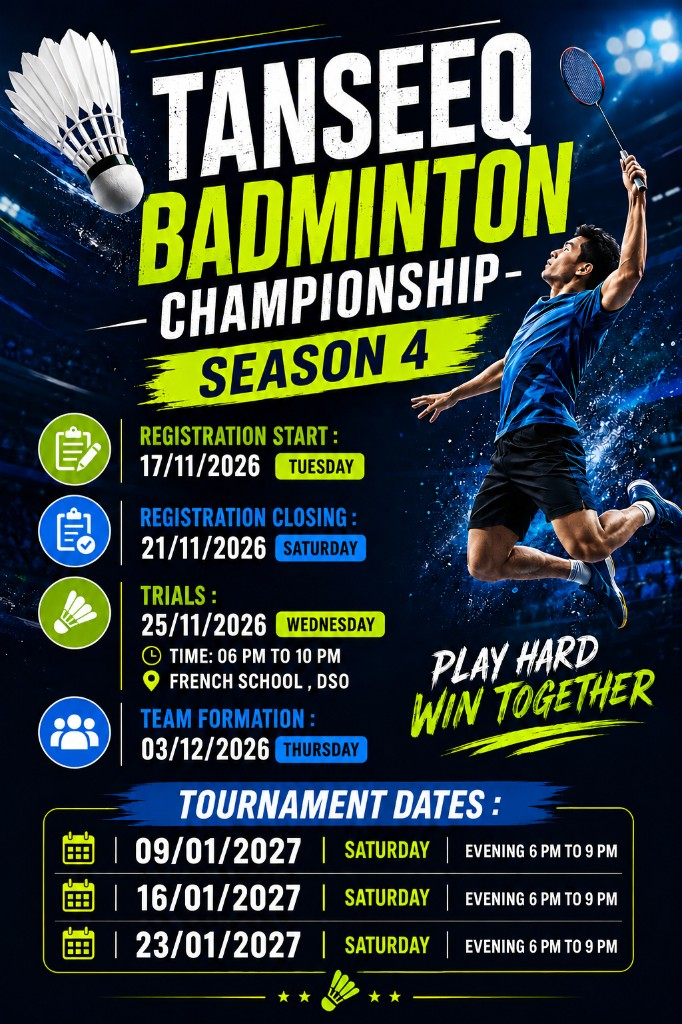
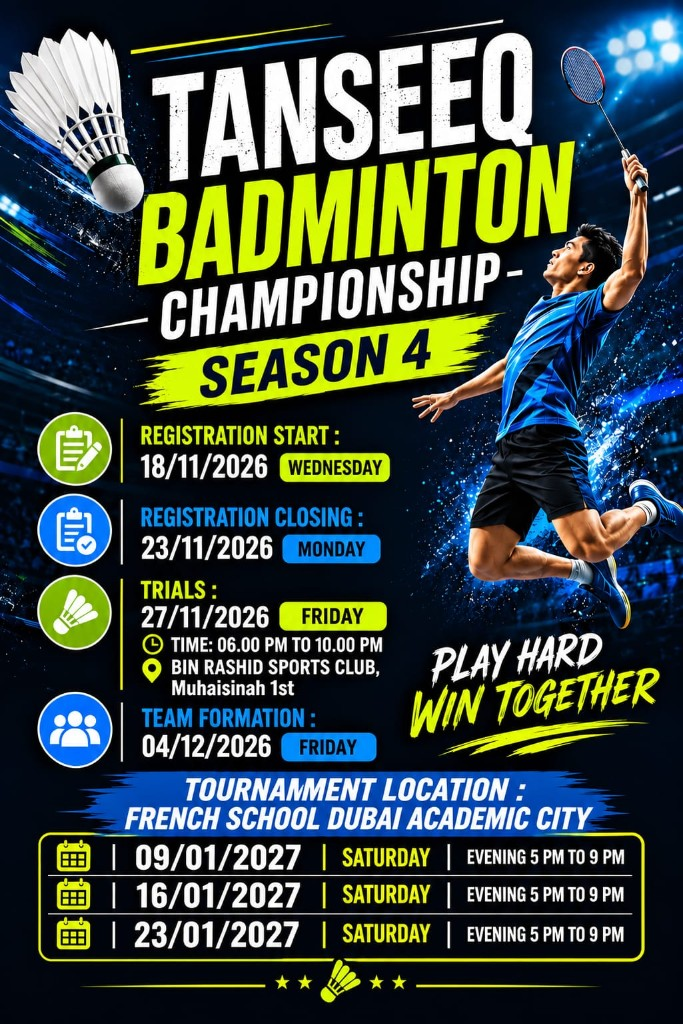
Update badminton poster and add planned vacation date field through Jan 2027.

diff --git a/app/Http/Controllers/RunRegistrationController.php b/app/Http/Controllers/RunRegistrationController.php
@@ -15,14 +15,14 @@ class RunRegistrationController extends Controller
 {
     /**
      * Check if registration is closed
-     * Closes on 21 November 2026 at night 12:00 AM Dubai time
-     * (open all day on 21 Nov; closed from 22 Nov 00:00 Asia/Dubai)
+     * Closes on 23 November 2026 at night 12:00 AM Dubai time
+     * (open all day on 23 Nov; closed from 24 Nov 00:00 Asia/Dubai)
      *
      * @param Carbon|null $testTime Optional test time to simulate different times
      */
     private function isRegistrationClosed($testTime = null)
     {
-        // Get deadline from environment or use default (night of 21 Nov 2026 = 22 Nov 00:00 Dubai)
+        // Get deadline from environment or use default (night of 23 Nov 2026 = 24 Nov 00:00 Dubai)
         $deadline = env('REGISTRATION_DEADLINE', null);
         
         // Get local timezone from env or default to Asia/Dubai (Dubai/UAE timezone)
@@ -32,8 +32,8 @@ class RunRegistrationController extends Controller
             // Parse deadline assuming it's in local timezone (not UTC)
             $deadlineTime = Carbon::parse($deadline, $localTimezone);
         } else {
-            // Default: night of 21 Nov 2026 at 12:00 AM Dubai = 22 Nov 2026 00:00:00 Asia/Dubai
-            $deadlineTime = Carbon::create(2026, 11, 22, 0, 0, 0, $localTimezone);
+            // Default: night of 23 Nov 2026 at 12:00 AM Dubai = 24 Nov 2026 00:00:00 Asia/Dubai
+            $deadlineTime = Carbon::create(2026, 11, 24, 0, 0, 0, $localTimezone);
         }
         
         $currentTime = $testTime ?? now();
@@ -56,7 +56,7 @@ class RunRegistrationController extends Controller
             // Parse deadline assuming it's in local timezone
             $deadlineTime = Carbon::parse($deadline, $localTimezone);
         } else {
-            $deadlineTime = Carbon::create(2026, 11, 22, 0, 0, 0, $localTimezone);
+            $deadlineTime = Carbon::create(2026, 11, 24, 0, 0, 0, $localTimezone);
         }
         
         $currentTime = $currentTime->setTimezone($localTimezone);
@@ -94,7 +94,7 @@ class RunRegistrationController extends Controller
         if ($deadline) {
             $deadlineTime = Carbon::parse($deadline);
         } else {
-            $deadlineTime = Carbon::create(2026, 11, 22, 0, 0, 0);
+            $deadlineTime = Carbon::create(2026, 11, 24, 0, 0, 0);
         }
         
         // Test times to check
@@ -109,10 +109,10 @@ class RunRegistrationController extends Controller
         } else {
             // Default test times
             $testTimes = [
-                ['label' => 'Nov 21 11:50 AM', 'time' => Carbon::create(2026, 11, 21, 11, 50, 0)],
-                ['label' => 'Nov 21 11:59 PM', 'time' => Carbon::create(2026, 11, 21, 23, 59, 59)],
-                ['label' => 'Nov 22 12:00 AM', 'time' => Carbon::create(2026, 11, 22, 0, 0, 0)],
-                ['label' => 'Nov 22 12:01 AM', 'time' => Carbon::create(2026, 11, 22, 0, 1, 0)],
+                ['label' => 'Nov 23 11:50 AM', 'time' => Carbon::create(2026, 11, 23, 11, 50, 0)],
+                ['label' => 'Nov 23 11:59 PM', 'time' => Carbon::create(2026, 11, 23, 23, 59, 59)],
+                ['label' => 'Nov 24 12:00 AM', 'time' => Carbon::create(2026, 11, 24, 0, 0, 0)],
+                ['label' => 'Nov 24 12:01 AM', 'time' => Carbon::create(2026, 11, 24, 0, 1, 0)],
             ];
         }
         
@@ -323,6 +323,7 @@ class RunRegistrationController extends Controller
             'employee_id' => 'required|unique:run_registrations',
             'dob' => 'required|date',
             'contact_number' => 'required|digits_between:8,15',
+            'planned_vacation' => 'required|date|after_or_equal:today|before_or_equal:2027-01-31',
             'trial_availability' => 'required|in:Yes,No',
             'trial_transportation' => 'required|in:Yes,No',
             'trial_pickup_location' => ['nullable', 'required_if:trial_transportation,Yes', Rule::in($pickupLocations)],
@@ -360,6 +361,7 @@ class RunRegistrationController extends Controller
             'dob' => $request->dob,
             'run_category' => 'Badminton',
             'contact_number' => $request->contact_number,
+            'planned_vacation' => $request->planned_vacation,
             'tshirt_size' => 'N/A',
             'trial_availability' => $request->trial_availability,
             'trial_transportation' => $request->trial_transportation,
@@ -538,6 +540,7 @@ class RunRegistrationController extends Controller
             'company' => ['required', Rule::in($companies)],
             'dob' => 'required|date',
             'contact_number' => 'required|digits_between:8,15',
+            'planned_vacation' => 'required|date|after_or_equal:today|before_or_equal:2027-01-31',
             'trial_availability' => 'required|in:Yes,No',
             'trial_transportation' => 'required|in:Yes,No',
             'trial_pickup_location' => ['nullable', 'required_if:trial_transportation,Yes', Rule::in($pickupLocations)],
@@ -551,6 +554,7 @@ class RunRegistrationController extends Controller
             'company' => $request->company,
             'dob' => $request->dob,
             'contact_number' => $request->contact_number,
+            'planned_vacation' => $request->planned_vacation,
             'trial_availability' => $request->trial_availability,
             'trial_transportation' => $request->trial_transportation,
             'trial_pickup_location' => $request->trial_transportation === 'Yes' ? $request->trial_pickup_location : null,
@@ -587,6 +591,7 @@ class RunRegistrationController extends Controller
                 'Company',
                 'DOB',
                 'Contact Number',
+                'Planned Vacation',
                 'Trial Availability',
                 'Trial Transportation',
                 'Trial Pickup Location',
@@ -606,6 +611,7 @@ class RunRegistrationController extends Controller
                     $r->company,
                     $r->dob ? Carbon::parse($r->dob)->format('d/m/Y') : '-',
                     $r->contact_number,
+                    $r->planned_vacation ? Carbon::parse($r->planned_vacation)->format('d/m/Y') : '-',
                     $r->trial_availability ?? '-',
                     $r->trial_transportation ?? '-',
                     $r->trial_pickup_location ?? '-',
@@ -699,6 +705,7 @@ class RunRegistrationController extends Controller
                 'Company',
                 'DOB',
                 'Contact Number',
+                'Planned Vacation',
                 'Trial Availability',
                 'Trial Transportation',
                 'Trial Pickup Location',
@@ -717,6 +724,7 @@ class RunRegistrationController extends Controller
                     $r->company,
                     $r->dob ? Carbon::parse($r->dob)->format('d/m/Y') : '-',
                     $r->contact_number,
+                    $r->planned_vacation ? Carbon::parse($r->planned_vacation)->format('d/m/Y') : '-',
                     $r->trial_availability ?? '-',
                     $r->trial_transportation ?? '-',
                     $r->trial_pickup_location ?? '-',

diff --git a/resources/views/run/register.blade.php b/resources/views/run/register.blade.php
@@ -211,10 +211,20 @@
                                 <input type="tel" class="form-control" id="contact_number" name="contact_number"
                                        value="{{ old('contact_number') }}" placeholder="Contact number" required>
                             </div>
+
+                            <div class="mb-3">
+                                <label for="planned_vacation" class="form-label">Planned Vacation <span class="text-danger">*</span></label>
+                                <input type="date" class="form-control" id="planned_vacation" name="planned_vacation"
+                                       value="{{ old('planned_vacation') }}"
+                                       min="{{ now()->timezone(config('app.timezone', 'Asia/Dubai'))->toDateString() }}"
+                                       max="2027-01-31"
+                                       required>
+                                <small class="text-muted">Select a date from today through 31 January 2027</small>
+                            </div>
                         </div>
 
                         <div class="form-section">
-                            <div class="section-title">Trial Details (25/11/2026)</div>
+                            <div class="section-title">Trial Details (27/11/2026)</div>
 
                             <div class="mb-3">
                                 <label for="trial_availability" class="form-label">Trial Availability (27/11/2026) <span class="text-danger">*</span></label>

diff --git a/resources/views/run/edit.blade.php b/resources/views/run/edit.blade.php
@@ -86,6 +86,15 @@
                                 <input type="tel" class="form-control" id="contact_number" name="contact_number"
                                        value="{{ old('contact_number', $registration->contact_number) }}" required>
                             </div>
+
+                            <div class="mb-3">
+                                <label for="planned_vacation" class="form-label">Planned Vacation <span class="text-danger">*</span></label>
+                                <input type="date" class="form-control" id="planned_vacation" name="planned_vacation"
+                                       value="{{ old('planned_vacation', $registration->planned_vacation ? \Illuminate\Support\Carbon::parse($registration->planned_vacation)->format('Y-m-d') : '') }}"
+                                       min="{{ now()->timezone(config('app.timezone', 'Asia/Dubai'))->toDateString() }}"
+                                       max="2027-01-31"
+                                       required>
+                            </div>
                         </div>
 
                         <div class="form-section">

diff --git a/resources/views/run/list.blade.php b/resources/views/run/list.blade.php
@@ -131,6 +131,7 @@
                     <th>Company</th>
                     <th>DOB</th>
                     <th>Contact</th>
+                    <th>Planned Vacation</th>
                     <th>Trial Avail.</th>
                     <th>Trial Transport</th>
                     <th>Trial Pickup</th>
@@ -152,6 +153,7 @@
                     <td>{{ $r->company }}</td>
                     <td>{{ $r->dob ? \Illuminate\Support\Carbon::parse($r->dob)->format('d/m/Y') : '-' }}</td>
                     <td>{{ $r->contact_number }}</td>
+                    <td>{{ $r->planned_vacation ? \Illuminate\Support\Carbon::parse($r->planned_vacation)->format('d/m/Y') : '-' }}</td>
                     <td>{{ $r->trial_availability ?? '-' }}</td>
                     <td>{{ $r->trial_transportation ?? '-' }}</td>
                     <td>{{ $r->trial_pickup_location ?? '-' }}</td>

diff --git a/database/migrations/2026_11_18_095500_add_planned_vacation_to_run_registrations_table.php b/database/migrations/2026_11_18_095500_add_planned_vacation_to_run_registrations_table.php
@@ -1,0 +1,26 @@
+<?php
+
+use Illuminate\Database\Migrations\Migration;
+use Illuminate\Database\Schema\Blueprint;
+use Illuminate\Support\Facades\Schema;
+
+return new class extends Migration
+{
+    public function up(): void
+    {
+        Schema::table('run_registrations', function (Blueprint $table) {
+            if (!Schema::hasColumn('run_registrations', 'planned_vacation')) {
+                $table->date('planned_vacation')->nullable()->after('contact_number');
+            }
+        });
+    }
+
+    public function down(): void
+    {
+        Schema::table('run_registrations', function (Blueprint $table) {
+            if (Schema::hasColumn('run_registrations', 'planned_vacation')) {
+                $table->dropColumn('planned_vacation');
+            }
+        });
+    }
+};

diff --git a/app/Models/RunRegistration.php b/app/Models/RunRegistration.php
@@ -15,6 +15,7 @@ class RunRegistration extends Model
         'dob',
         'run_category',
         'contact_number',
+        'planned_vacation',
         'tshirt_size',
         'trial_availability',
         'trial_transportation',
@@ -29,5 +30,6 @@ class RunRegistration extends Model
 
     protected $casts = [
         'dob' => 'date',
+        'planned_vacation' => 'date',
     ];
 }
